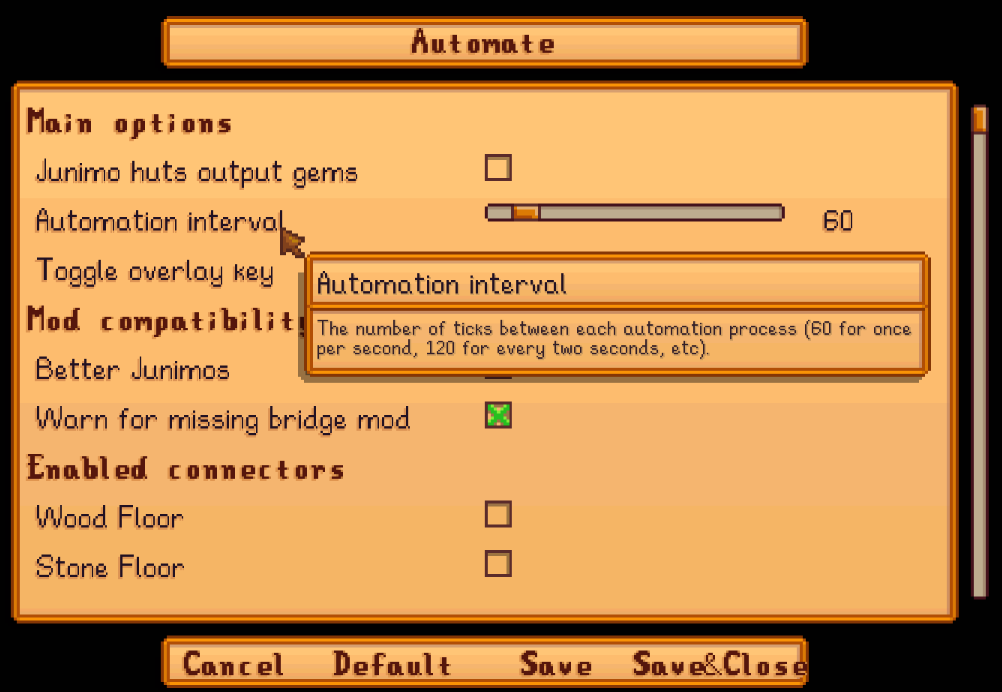
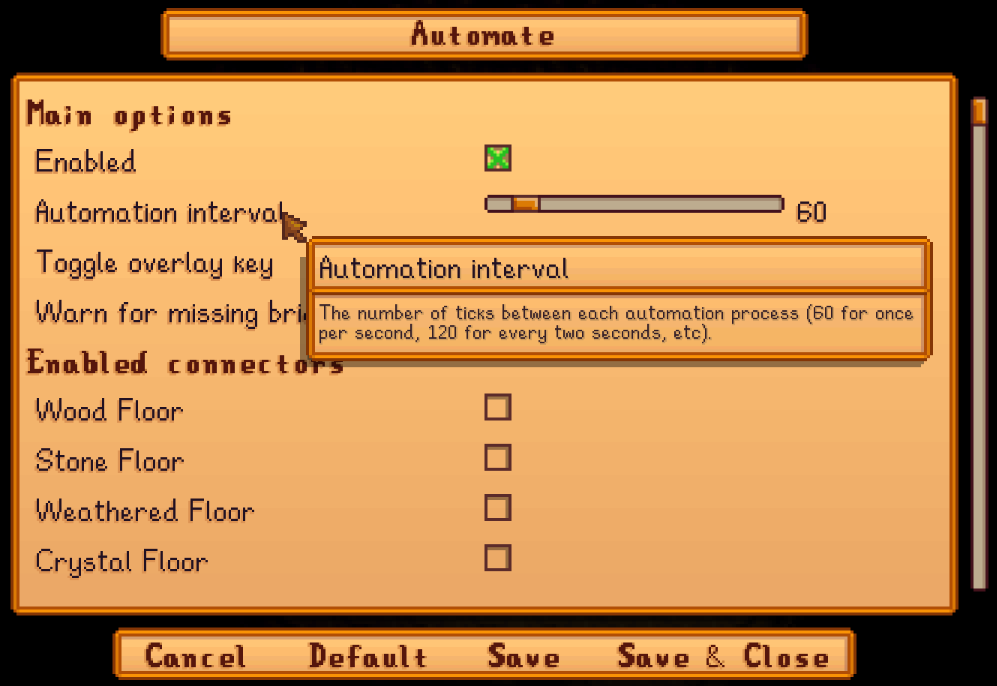
update docs

diff --git a/README.md b/README.md
@@ -85,20 +85,20 @@ on the wiki for help contributing translations.
 
 &nbsp;      | Automate                   | Chests Anywhere                  | Data Layers                  | Debug Mode                  | Fast Animations                  | Horse Flute Anywhere                 | Lookup Anything                  | Noclip Mode                  | Skip Intro                  | Small Beach Farm                 | Tractor Mod
 :---------- | :------------------------- | :------------------------------- | :--------------------------- | :-------------------------- | :------------------------------- | :----------------------------------- | :------------------------------- | :--------------------------- | :-------------------------- | :------------------------------- | :---------------------------
-Chinese     | [✓](Automate/i18n/zh.json) | [✓](ChestsAnywhere/i18n/zh.json) | [↻](DataLayers/i18n/zh.json) | [✓](DebugMode/i18n/zh.json) | [✓](FastAnimations/i18n/zh.json) | [✓](HorseFluteAnywhere/i18n/zh.json) | [✓](LookupAnything/i18n/zh.json) | [✓](NoclipMode/i18n/zh.json) | [✓](SkipIntro/i18n/zh.json) | [❑](SmallBeachFarm/i18n)         | [✓](TractorMod/i18n/zh.json)
+Chinese     | [↻](Automate/i18n/zh.json) | [✓](ChestsAnywhere/i18n/zh.json) | [↻](DataLayers/i18n/zh.json) | [✓](DebugMode/i18n/zh.json) | [✓](FastAnimations/i18n/zh.json) | [✓](HorseFluteAnywhere/i18n/zh.json) | [↻](LookupAnything/i18n/zh.json) | [✓](NoclipMode/i18n/zh.json) | [✓](SkipIntro/i18n/zh.json) | [❑](SmallBeachFarm/i18n)         | [✓](TractorMod/i18n/zh.json)
 French      | [❑](Automate/i18n)         | [↻](ChestsAnywhere/i18n/fr.json) | [↻](DataLayers/i18n/fr.json) | [↻](DebugMode/i18n/fr.json) | [❑](FastAnimations/i18n)         | [❑](HorseFluteAnywhere/i18n)         | [↻](LookupAnything/i18n/fr.json) | [↻](NoclipMode/i18n/fr.json) | [❑](SkipIntro/i18n)         | [❑](SmallBeachFarm/i18n)         | [↻](TractorMod/i18n/fr.json)
-German      | [✓](Automate/i18n/de.json) | [✓](ChestsAnywhere/i18n/de.json) | [✓](DataLayers/i18n/de.json) | [✓](DebugMode/i18n/de.json) | [↻](FastAnimations/i18n/de.json) | [✓](HorseFluteAnywhere/i18n/de.json) | [✓](LookupAnything/i18n/de.json) | [↻](NoclipMode/i18n/de.json) | [✓](SkipIntro/i18n/de.json) | [↻](SmallBeachFarm/i18n/de.json) | [↻](TractorMod/i18n/de.json)
-Hungarian   | [✓](Automate/i18n/hu.json) | [↻](ChestsAnywhere/i18n/hu.json) | [✓](DataLayers/i18n/hu.json) | [↻](DebugMode/i18n/hu.json) | [❑](FastAnimations/i18n)         | [❑](HorseFluteAnywhere/i18n)         | [↻](LookupAnything/i18n/hu.json) | [✓](NoclipMode/i18n/hu.json) | [❑](SkipIntro/i18n)         | [❑](SmallBeachFarm/i18n)         | [↻](TractorMod/i18n/hu.json)
-Italian     | [✓](Automate/i18n/it.json) | [✓](ChestsAnywhere/i18n/it.json) | [✓](DataLayers/i18n/it.json) | [✓](DebugMode/i18n/it.json) | [✓](FastAnimations/i18n/it.json) | [✓](HorseFluteAnywhere/i18n/it.json) | [✓](LookupAnything/i18n/it.json) | [✓](NoclipMode/i18n/it.json) | [✓](SkipIntro/i18n/it.json) | [✓](SmallBeachFarm/i18n/it.json) | [✓](TractorMod/i18n/it.json)
+German      | [↻](Automate/i18n/de.json) | [✓](ChestsAnywhere/i18n/de.json) | [✓](DataLayers/i18n/de.json) | [✓](DebugMode/i18n/de.json) | [↻](FastAnimations/i18n/de.json) | [✓](HorseFluteAnywhere/i18n/de.json) | [↻](LookupAnything/i18n/de.json) | [↻](NoclipMode/i18n/de.json) | [✓](SkipIntro/i18n/de.json) | [↻](SmallBeachFarm/i18n/de.json) | [↻](TractorMod/i18n/de.json)
+Hungarian   | [↻](Automate/i18n/hu.json) | [↻](ChestsAnywhere/i18n/hu.json) | [✓](DataLayers/i18n/hu.json) | [↻](DebugMode/i18n/hu.json) | [❑](FastAnimations/i18n)         | [❑](HorseFluteAnywhere/i18n)         | [↻](LookupAnything/i18n/hu.json) | [✓](NoclipMode/i18n/hu.json) | [❑](SkipIntro/i18n)         | [❑](SmallBeachFarm/i18n)         | [↻](TractorMod/i18n/hu.json)
+Italian     | [↻](Automate/i18n/it.json) | [✓](ChestsAnywhere/i18n/it.json) | [✓](DataLayers/i18n/it.json) | [✓](DebugMode/i18n/it.json) | [✓](FastAnimations/i18n/it.json) | [✓](HorseFluteAnywhere/i18n/it.json) | [↻](LookupAnything/i18n/it.json) | [✓](NoclipMode/i18n/it.json) | [✓](SkipIntro/i18n/it.json) | [✓](SmallBeachFarm/i18n/it.json) | [✓](TractorMod/i18n/it.json)
 Japanese    | [❑](Automate/i18n)         | [↻](ChestsAnywhere/i18n/ja.json) | [↻](DataLayers/i18n/ja.json) | [↻](DebugMode/i18n/ja.json) | [❑](FastAnimations/i18n)         | [❑](HorseFluteAnywhere/i18n)         | [↻](LookupAnything/i18n/ja.json) | [↻](NoclipMode/i18n/ja.json) | [❑](SkipIntro/i18n)         | [❑](SmallBeachFarm/i18n)         | [↻](TractorMod/i18n/ja.json)
 Korean      | [↻](Automate/i18n/ko.json) | [✓](ChestsAnywhere/i18n/ko.json) | [✓](DataLayers/i18n/ko.json) | [✓](DebugMode/i18n/ko.json) | [↻](FastAnimations/i18n/ko.json) | [✓](HorseFluteAnywhere/i18n/ko.json) | [↻](LookupAnything/i18n/ko.json) | [↻](NoclipMode/i18n/ko.json) | [✓](SkipIntro/i18n/ko.json) | [↻](SmallBeachFarm/i18n/ko.json) | [↻](TractorMod/i18n/ko.json)
 [Polish]    | [❑](Automate/i18n)         | [↻](ChestsAnywhere/i18n/pl.json) | [✓](DataLayers/i18n/pl.json) | [↻](DebugMode/i18n/pl.json) | [❑](FastAnimations/i18n)         | [❑](HorseFluteAnywhere/i18n)         | [↻](LookupAnything/i18n/pl.json) | [↻](NoclipMode/i18n/pl.json) | [❑](SkipIntro/i18n)         | [❑](SmallBeachFarm/i18n)         | [↻](TractorMod/i18n/pl.json)
 Portuguese  | [↻](Automate/i18n/pt.json) | [↻](ChestsAnywhere/i18n/pt.json) | [↻](DataLayers/i18n/pt.json) | [↻](DebugMode/i18n/pt.json) | [❑](FastAnimations/i18n)         | [❑](HorseFluteAnywhere/i18n)         | [↻](LookupAnything/i18n/pt.json) | [↻](NoclipMode/i18n/pt.json) | [❑](SkipIntro/i18n)         | [❑](SmallBeachFarm/i18n)         | [↻](TractorMod/i18n/pt.json)
-Russian     | [✓](Automate/i18n/ru.json) | [↻](ChestsAnywhere/i18n/ru.json) | [↻](DataLayers/i18n/ru.json) | [↻](DebugMode/i18n/ru.json) | [↻](FastAnimations/i18n/ru.json) | [❑](HorseFluteAnywhere/i18n)         | [↻](LookupAnything/i18n/ru.json) | [↻](NoclipMode/i18n/ru.json) | [❑](SkipIntro/i18n)         | [❑](SmallBeachFarm/i18n)         | [↻](TractorMod/i18n/ru.json)
-Spanish     | [↻](Automate/i18n/es.json) | [✓](ChestsAnywhere/i18n/es.json) | [✓](DataLayers/i18n/es.json) | [✓](DebugMode/i18n/es.json) | [↻](FastAnimations/i18n/es.json) | [✓](HorseFluteAnywhere/i18n/es.json) | [✓](LookupAnything/i18n/es.json) | [✓](NoclipMode/i18n/es.json) | [✓](SkipIntro/i18n/es.json) | [↻](SmallBeachFarm/i18n/es.json) | [↻](TractorMod/i18n/es.json)
+Russian     | [↻](Automate/i18n/ru.json) | [↻](ChestsAnywhere/i18n/ru.json) | [↻](DataLayers/i18n/ru.json) | [↻](DebugMode/i18n/ru.json) | [↻](FastAnimations/i18n/ru.json) | [❑](HorseFluteAnywhere/i18n)         | [↻](LookupAnything/i18n/ru.json) | [↻](NoclipMode/i18n/ru.json) | [❑](SkipIntro/i18n)         | [❑](SmallBeachFarm/i18n)         | [↻](TractorMod/i18n/ru.json)
+Spanish     | [↻](Automate/i18n/es.json) | [✓](ChestsAnywhere/i18n/es.json) | [✓](DataLayers/i18n/es.json) | [✓](DebugMode/i18n/es.json) | [↻](FastAnimations/i18n/es.json) | [✓](HorseFluteAnywhere/i18n/es.json) | [↻](LookupAnything/i18n/es.json) | [✓](NoclipMode/i18n/es.json) | [✓](SkipIntro/i18n/es.json) | [↻](SmallBeachFarm/i18n/es.json) | [↻](TractorMod/i18n/es.json)
 [Thai]      | [❑](Automate/i18n)         | [↻](ChestsAnywhere/i18n/th.json) | [✓](DataLayers/i18n/th.json) | [↻](DebugMode/i18n/th.json) | [❑](FastAnimations/i18n)         | [✓](HorseFluteAnywhere/i18n/th.json) | [↻](LookupAnything/i18n/th.json) | [↻](NoclipMode/i18n/th.json) | [✓](SkipIntro/i18n/th.json) | [↻](SmallBeachFarm/i18n/th.json) | [✓](TractorMod/i18n/th.json)
-Turkish     | [✓](Automate/i18n/tr.json) | [✓](ChestsAnywhere/i18n/tr.json) | [✓](DataLayers/i18n/tr.json) | [✓](DebugMode/i18n/tr.json) | [↻](FastAnimations/i18n/tr.json) | [✓](HorseFluteAnywhere/i18n/tr.json) | [↻](LookupAnything/i18n/tr.json) | [↻](NoclipMode/i18n/tr.json) | [✓](SkipIntro/i18n/tr.json) | [↻](SmallBeachFarm/i18n/tr.json) | [↻](TractorMod/i18n/tr.json)
-[Ukrainian] | [✓](Automate/i18n/uk.json) | [✓](ChestsAnywhere/i18n/uk.json) | [✓](DataLayers/i18n/uk.json) | [✓](DebugMode/i18n/uk.json) | [✓](FastAnimations/i18n/uk.json) | [✓](HorseFluteAnywhere/i18n/uk.json) | [✓](LookupAnything/i18n/uk.json) | [✓](NoclipMode/i18n/uk.json) | [✓](SkipIntro/i18n/uk.json) | [✓](SmallBeachFarm/i18n/uk.json) | [✓](TractorMod/i18n/uk.json)
+Turkish     | [↻](Automate/i18n/tr.json) | [✓](ChestsAnywhere/i18n/tr.json) | [✓](DataLayers/i18n/tr.json) | [✓](DebugMode/i18n/tr.json) | [↻](FastAnimations/i18n/tr.json) | [✓](HorseFluteAnywhere/i18n/tr.json) | [↻](LookupAnything/i18n/tr.json) | [↻](NoclipMode/i18n/tr.json) | [✓](SkipIntro/i18n/tr.json) | [↻](SmallBeachFarm/i18n/tr.json) | [↻](TractorMod/i18n/tr.json)
+[Ukrainian] | [↻](Automate/i18n/uk.json) | [✓](ChestsAnywhere/i18n/uk.json) | [✓](DataLayers/i18n/uk.json) | [✓](DebugMode/i18n/uk.json) | [✓](FastAnimations/i18n/uk.json) | [✓](HorseFluteAnywhere/i18n/uk.json) | [↻](LookupAnything/i18n/uk.json) | [✓](NoclipMode/i18n/uk.json) | [✓](SkipIntro/i18n/uk.json) | [✓](SmallBeachFarm/i18n/uk.json) | [✓](TractorMod/i18n/uk.json)
 
 [Polish]: https://www.nexusmods.com/stardewvalley/mods/3616
 [Thai]: https://www.nexusmods.com/stardewvalley/mods/7052

diff --git a/Automate/docs/README.md b/Automate/docs/README.md
@@ -362,6 +362,14 @@ Whether Automate features are enabled. If this is `false`, no machines will be a
   </td>
 </tr>
 <tr>
+  <td><code>AutomationInterval</code></td>
+  <td>
+
+The number of update ticks between each automation cycle (one second is ≈60 ticks). Default `60`.
+
+  </td>
+</tr>
+<tr>
   <td><code>Controls</code></td>
   <td>
 
@@ -370,23 +378,6 @@ The default value is `U` to toggle the automation overlay.
 
 You can separate bindings with commas (like `U, LeftShoulder` for either one), and set multi-key
 bindings with plus signs (like `LeftShift + U`).
-
-  </td>
-</tr>
-<tr>
-  <td><code>PullGemstonesFromJunimoHuts</code></td>
-  <td>
-
-Whether to pull gemstones out of Junimo huts. If true, you won't be able to change Junimo colors by
-placing gemstones in their hut. Default `false`.
-
-  </td>
-</tr>
-<tr>
-  <td><code>AutomationInterval</code></td>
-  <td>
-
-The number of update ticks between each automation cycle (one second is ≈60 ticks). Default `60`.
 
   </td>
 </tr>
@@ -418,16 +409,27 @@ for more info.
   </td>
 </tr>
 <tr>
-  <td><code>ModCompatibility</code></td>
+  <td><code>JunimoHutBehaviorForGems</code><br /><code>JunimoHutBehaviorForFertilizer</code><br /><code>JunimoHutBehaviorForSeeds</code></td>
   <td>
 
-Enables compatibility with other mods. All values are enabled by default.
+How [Junimo huts](https://stardewvalleywiki.com/Junimo_Hut) should automate the given item types.
 
-field | result
+The possible values are:
+
+value | result
 ----- | ------
-`AutoGrabberMod` | If [Auto-Grabber Mod](https://www.nexusmods.com/stardewvalley/mods/2783) is installed, auto-grabbers won't output fertilizer and seeds.
-`BetterJunimos` | If [Better Junimos](https://www.nexusmods.com/stardewvalley/mods/2221) is installed, Junimo huts won't output fertilizer and seeds.
-`WarnForMissingBridgeMod` | Whether to log a warning if you install a custom-machine mod that requires a separate compatibility patch which isn't installed.
+`Ignore` | Ignore items of this type, so they're not transferred either way.
+`MoveIntoChests` | Move any items of this type from the Junimo Hut into connected chests.
+`MoveIntoHut` | Move any items of this type from connected chests into the Junimo Hut.
+`AutoDetect` | <p>Apply the default logic based on the installed mods.</p><p>For gems, this is equivalent to `Ignore` (so you can add gems manually to change the color of Junimos).</p><p>For fertilizer and seeds, this is equivalent to `Ignore` if [Better Junimos](https://www.nexusmods.com/stardewvalley/mods/2221) is installed (so you can replant seeds/fertilizer), else `MoveIntoChests`.</p>
+  </td>
+</tr>
+<tr>
+  <td><code>WarnForMissingBridgeMod</code></td>
+  <td>
+
+Whether to log a warning if you install a custom-machine mod that requires a separate compatibility
+patch which isn't installed.
 
   </td>
 </tr>

diff --git a/Automate/docs/release-notes.md b/Automate/docs/release-notes.md
@@ -2,6 +2,8 @@
 
 # Release notes
 ## Upcoming release
+* Added option to transfer seeds & fertilizer into Junimo huts to automate replanting with [Better Junimos](https://www.nexusmods.com/stardewvalley/mods/2221) (thanks to kzawora)!
+* Overhauled Junimo hut settings to be more flexible.
 * Fixed items in Junimo Chests sometimes counted multiple times after 1.27.5.
 * Fixed deconstructor accepting items it normally wouldn't.
 
